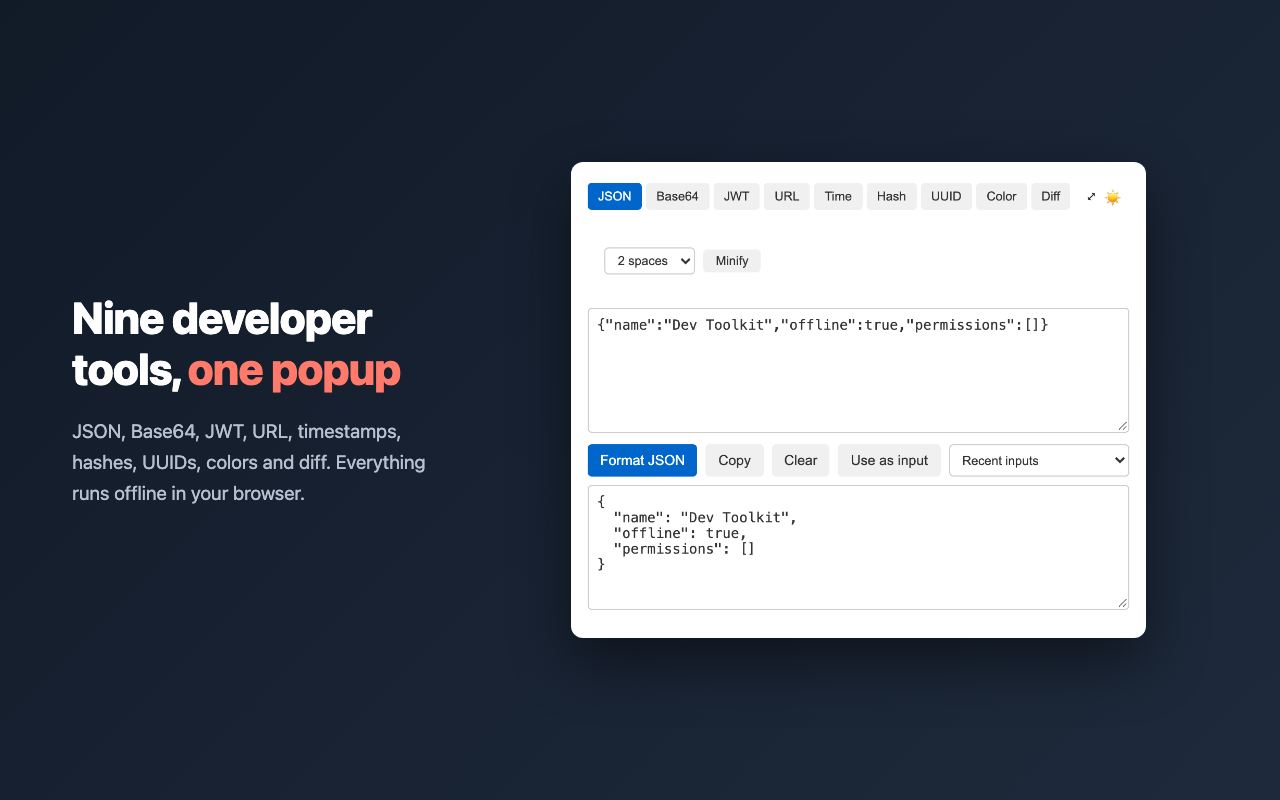
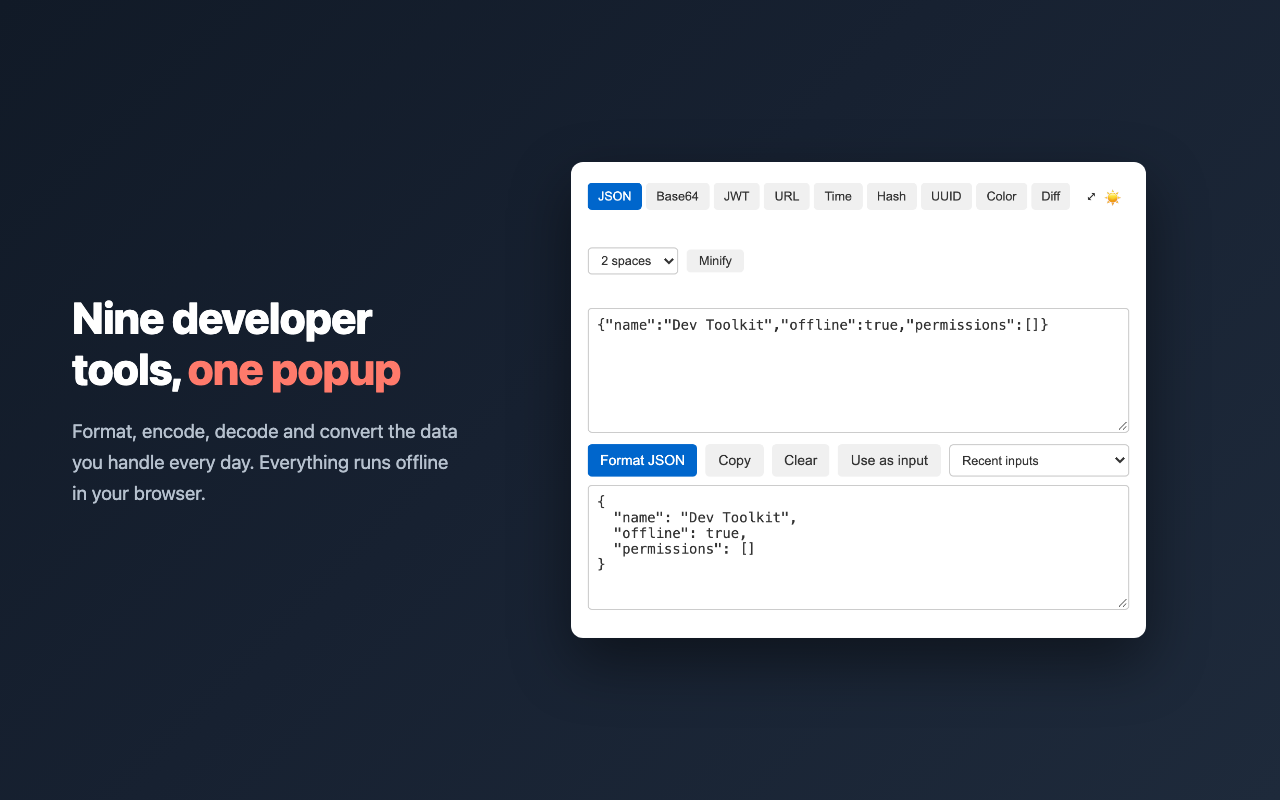
fix: describe the extension in a sentence instead of listing tool names

Changed region(s): [[0.0625, 0.5312, 0.375, 0.625], [0.4688, 0.3125, 0.5938, 0.3438]]

diff --git a/hack/store-slide.html b/hack/store-slide.html
@@ -28,7 +28,7 @@
 const COPY = {
   en: {
     slides: [
-      { title: 'Nine developer tools, <em>one popup</em>', body: 'JSON, Base64, JWT, URL, timestamps, hashes, UUIDs, colors and diff. Everything runs offline in your browser.' },
+      { title: 'Nine developer tools, <em>one popup</em>', body: 'Format, encode, decode and convert the data you handle every day. Everything runs offline in your browser.' },
       { title: 'Decode <em>JWTs</em> at a glance', body: 'See the header and payload of any token, or sign a new one with HMAC-SHA256.' },
       { title: 'Timestamps, <em>both ways</em>', body: 'Unix seconds or milliseconds to UTC and local time, and dates back to timestamps.' },
       { title: 'Compare two texts, <em>line by line</em>', body: 'Added, removed and unchanged lines with a summary. In a light or a dark theme.' },
@@ -37,7 +37,7 @@ const COPY = {
   },
   ko: {
     slides: [
-      { title: '개발자 도구 아홉 가지를 <em>팝업 하나</em>에', body: 'JSON, Base64, JWT, URL, 타임스탬프, 해시, UUID, 색상, 비교. 모두 브라우저 안에서 오프라인으로 동작합니다.' },
+      { title: '개발자 도구 아홉 가지를 <em>팝업 하나</em>에', body: '매일 다루는 데이터를 정리하고 변환합니다. 모두 브라우저 안에서 오프라인으로 동작합니다.' },
       { title: '<em>JWT</em>를 한눈에', body: '토큰의 헤더와 페이로드를 바로 확인하고, HMAC-SHA256으로 새 토큰에 서명합니다.' },
       { title: '타임스탬프를 <em>양방향</em>으로', body: 'Unix 초나 밀리초를 UTC와 현지 시각으로, 날짜를 다시 타임스탬프로 바꿉니다.' },
       { title: '두 텍스트를 <em>줄 단위</em>로 비교', body: '추가된 줄, 삭제된 줄, 그대로인 줄을 요약과 함께 보여 줍니다. 밝은 테마와 어두운 테마를 지원합니다.' },

diff --git a/docs/DESCRIPTION.md b/docs/DESCRIPTION.md
@@ -64,7 +64,7 @@ Upload `store/screenshots/en/` to the default listing and `store/screenshots/ko/
 ### Single purpose
 
 ```text
-Convert, encode, decode and format developer data (JSON, Base64, JWT, URL, timestamps, hashes, UUIDs, colors and text diffs) that the user types into the popup.
+Convert, encode, decode and format developer data that the user types into the popup, such as JSON documents, encoded strings, tokens and timestamps.
 ```
 
 ### Permission justification
